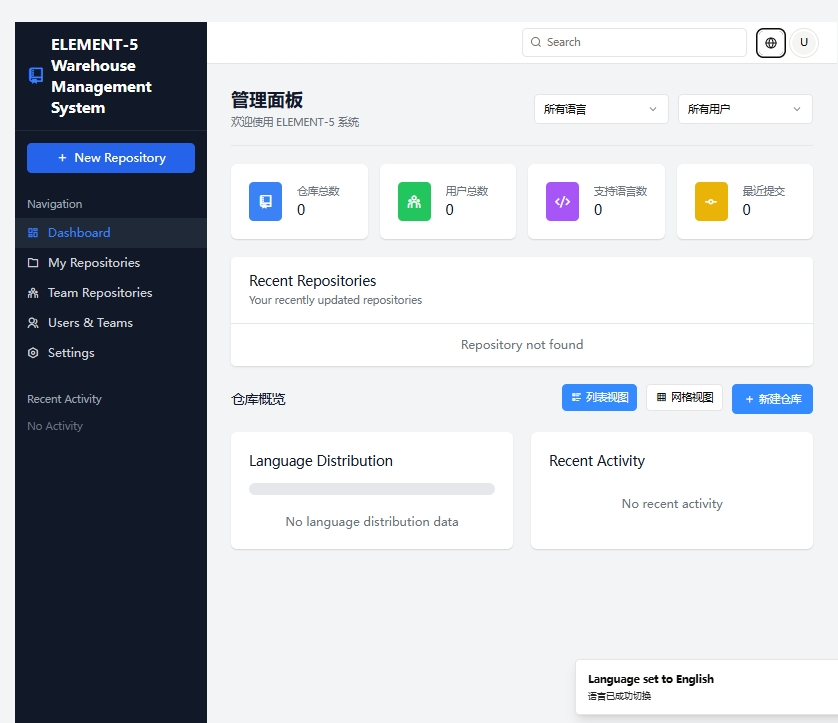
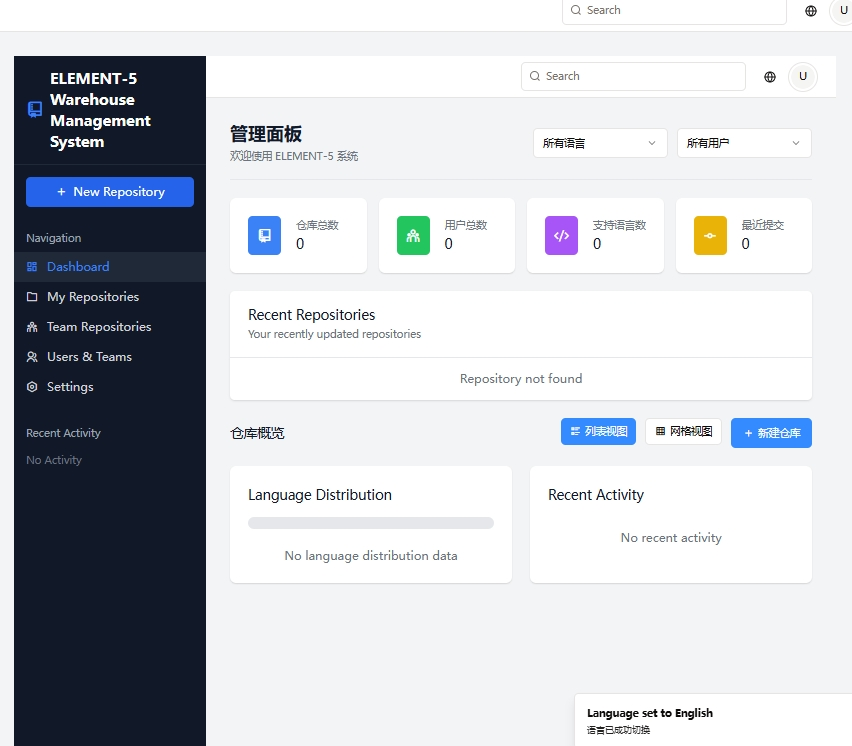
Internationalize dashboard page: Updated all text labels and placeholders with translations using the i18n framework.
Replit-Commit-Author: Agent
Replit-Commit-Session-Id: 60f3dffa-2fb3-478a-a123-ed03e427b74c
Replit-Commit-Screenshot-Url: https://storage.googleapis.com/screenshot-production-us-central1/02747779-55b8-4c50-aad4-a7eafbc2972b/526f02b2-a345-4821-a37f-6699fc9b70ff.jpg

diff --git a/client/src/pages/dashboard.tsx b/client/src/pages/dashboard.tsx
@@ -73,16 +73,16 @@ export default function Dashboard() {
     <Layout>
       <div className="pb-5 border-b border-gray-200 mb-6 flex flex-col sm:flex-row justify-between items-start sm:items-center">
         <div>
-          <h1 className="text-2xl font-bold text-gray-900">管理面板</h1>
-          <p className="mt-1 text-gray-500 text-sm">欢迎使用 ELEMENT-5 系统</p>
+          <h1 className="text-2xl font-bold text-gray-900">{t('dashboard.statsTitle')}</h1>
+          <p className="mt-1 text-gray-500 text-sm">{t('dashboard.welcome')}</p>
         </div>
         <div className="mt-4 sm:mt-0 flex flex-col sm:flex-row space-y-2 sm:space-y-0 sm:space-x-3">
           <Select value={languageFilter} onValueChange={setLanguageFilter}>
             <SelectTrigger className="w-[180px]">
-              <SelectValue placeholder="所有语言" />
+              <SelectValue placeholder={t('dashboard.allLanguages')} />
             </SelectTrigger>
             <SelectContent>
-              <SelectItem value="all">所有语言</SelectItem>
+              <SelectItem value="all">{t('dashboard.allLanguages')}</SelectItem>
               <SelectItem value="javascript">JavaScript</SelectItem>
               <SelectItem value="python">Python</SelectItem>
               <SelectItem value="java">Java</SelectItem>
@@ -93,12 +93,12 @@ export default function Dashboard() {
 
           <Select value={userFilter} onValueChange={setUserFilter}>
             <SelectTrigger className="w-[180px]">
-              <SelectValue placeholder="所有用户" />
+              <SelectValue placeholder={t('dashboard.allUsers')} />
             </SelectTrigger>
             <SelectContent>
-              <SelectItem value="all">所有用户</SelectItem>
-              <SelectItem value="me">我的</SelectItem>
-              <SelectItem value="team">团队</SelectItem>
+              <SelectItem value="all">{t('dashboard.allUsers')}</SelectItem>
+              <SelectItem value="me">{t('repositories.my')}</SelectItem>
+              <SelectItem value="team">{t('repositories.team')}</SelectItem>
             </SelectContent>
           </Select>
         </div>
@@ -106,25 +106,25 @@ export default function Dashboard() {
 
       <div className="grid grid-cols-1 sm:grid-cols-2 lg:grid-cols-4 gap-4 mb-6">
         <StatsCard 
-          title="仓库总数" 
+          title={t('dashboard.repositoriesCount')} 
           value={isLoadingStats ? "..." : stats?.totalRepositories || 0} 
           icon="ri-git-repository-line" 
           color="blue" 
         />
         <StatsCard 
-          title="用户总数" 
+          title={t('dashboard.usersCount')} 
           value={isLoadingStats ? "..." : stats?.totalUsers || 0} 
           icon="ri-team-line" 
           color="green" 
         />
         <StatsCard 
-          title="支持语言数" 
+          title={t('dashboard.languagesCount')} 
           value={isLoadingStats ? "..." : stats?.languagesCount || 0} 
           icon="ri-code-s-slash-line" 
           color="purple" 
         />
         <StatsCard 
-          title="最近提交" 
+          title={t('dashboard.commitsCount')} 
           value={isLoadingStats ? "..." : stats?.recentCommits || 0} 
           icon="ri-git-commit-line" 
           color="yellow" 
@@ -140,7 +140,7 @@ export default function Dashboard() {
 
       <div className="mb-6">
         <div className="flex justify-between items-center mb-4">
-          <h3 className="text-lg leading-6 font-medium text-gray-900">仓库概览</h3>
+          <h3 className="text-lg leading-6 font-medium text-gray-900">{t('repositories.title')}</h3>
           <div className="flex space-x-3">
             <Button
               variant={viewMode === "list" ? "default" : "outline"}
@@ -148,7 +148,7 @@ export default function Dashboard() {
               onClick={() => setViewMode("list")}
               className="flex items-center"
             >
-              <i className="ri-list-check-2 mr-1.5"></i> 列表视图
+              <i className="ri-list-check-2 mr-1.5"></i> {t('dashboard.listView')}
             </Button>
             <Button
               variant={viewMode === "grid" ? "default" : "outline"}
@@ -156,13 +156,13 @@ export default function Dashboard() {
               onClick={() => setViewMode("grid")}
               className="flex items-center"
             >
-              <i className="ri-grid-line mr-1.5"></i> 网格视图
+              <i className="ri-grid-line mr-1.5"></i> {t('dashboard.gridView')}
             </Button>
             <Button
               onClick={() => setCreateDialogOpen(true)}
               className="flex items-center"
             >
-              <i className="ri-add-line mr-1.5"></i> 新建仓库
+              <i className="ri-add-line mr-1.5"></i> {t('repositories.newRepository')}
             </Button>
           </div>
         </div>
